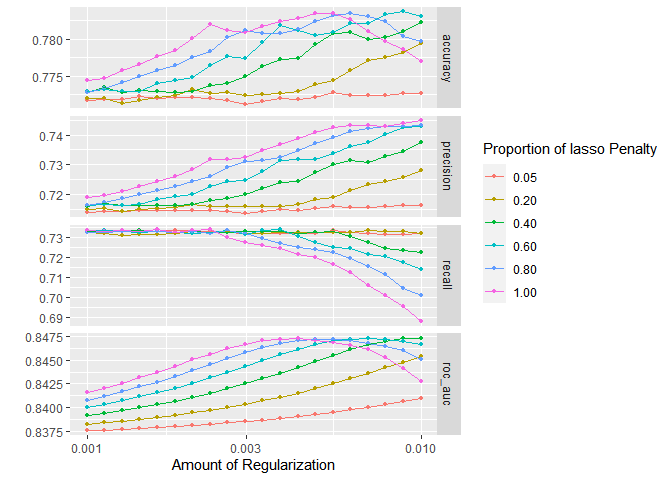
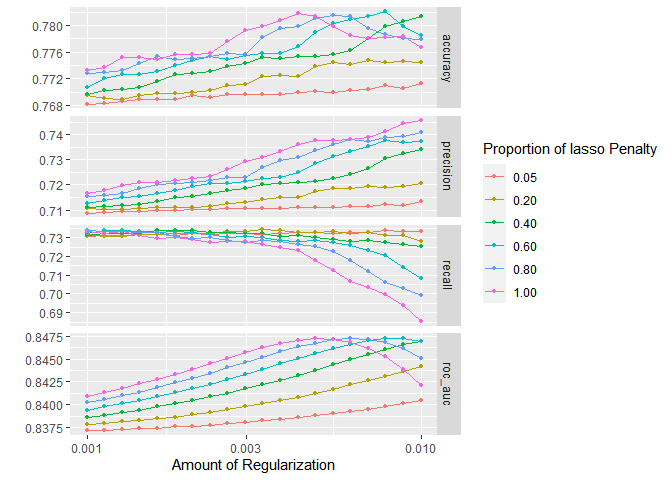
Add comments

diff --git a/Markdown/DAEN_690.md b/Markdown/DAEN_690.md
@@ -11,6 +11,8 @@ editor_options:
 
 
 
+Load libraries
+
 
 ```r
 library(tidyverse)
@@ -25,14 +27,35 @@ library(themis)
 tidymodels_prefer()
 ```
 
+Read data, convert the outcome/label column to factor.\
+For now try classifying only two categories. 3 categories that were relatively infrequent were dropped/
+
 
 ```r
 dt <- read_csv(here("Data/runway_incursion_narrative.csv")) %>% 
   clean_names()
+dt %>% count(cat_rank)
+```
+
+```
+## # A tibble: 6 x 2
+##   cat_rank     n
+##   <chr>    <int>
+## 1 A          142
+## 2 B          126
+## 3 C         7025
+## 4 D        10245
+## 5 E           34
+## 6 P           29
+```
+
+```r
 dt <- dt %>% 
   filter(cat_rank %in% c("C", "D")) %>% 
   mutate(cat_rank = factor(cat_rank)) 
 ```
+
+Basic eda to see word and bigram frequencies.
 
 
 ```r
@@ -78,6 +101,9 @@ bigrams_cnts %>%
 
 ![](DAEN_690_files/figure-html/eda-2.png)<!-- -->
 
+Split data and create cross fold validation split.\
+Since outcome levels are slightly imbalanced, splits are stratified.
+
 
 ```r
 initialsplit <- initial_split(dt, strata = cat_rank )
@@ -90,6 +116,26 @@ folds <- vfold_cv(dt_train, strata = cat_rank)
 ```r
 #use_glmnet(cat_rank ~ ., data = dt_train)
 ```
+
+**Recipe**
+
+-   tokenize
+
+-   remove stopwords
+
+-   Only keep tokens that occur minimum 100 times but less that 1000 times. After filtering these out, keep only 5000 tokens.
+
+-    tfidf
+
+-   smote for imbalanced labels.
+
+**Model**
+
+-   Glmnet
+
+-   Penalty and mixture tuned
+
+Using sparse matrix representation to speed up.
 
 
 ```r
@@ -142,11 +188,11 @@ glmnet_tune %>% show_best("accuracy")
 ## # A tibble: 5 x 8
 ##   penalty mixture .metric  .estimator  mean     n std_err .config               
 ##     <dbl>   <dbl> <chr>    <chr>      <dbl> <int>   <dbl> <chr>                 
-## 1 0.00886     0.6 accuracy binary     0.784    10 0.00390 Preprocessor1_Model079
-## 2 0.00546     1   accuracy binary     0.783    10 0.00417 Preprocessor1_Model115
-## 3 0.00616     0.8 accuracy binary     0.783    10 0.00360 Preprocessor1_Model096
-## 4 0.00483     1   accuracy binary     0.783    10 0.00375 Preprocessor1_Model114
-## 5 0.00785     0.6 accuracy binary     0.783    10 0.00382 Preprocessor1_Model078
+## 1 0.00785     0.6 accuracy binary     0.782    10 0.00264 Preprocessor1_Model078
+## 2 0.00428     1   accuracy binary     0.782    10 0.00255 Preprocessor1_Model113
+## 3 0.00546     0.8 accuracy binary     0.782    10 0.00273 Preprocessor1_Model095
+## 4 0.00616     0.8 accuracy binary     0.781    10 0.00262 Preprocessor1_Model096
+## 5 0.00483     1   accuracy binary     0.781    10 0.00247 Preprocessor1_Model114
 ```
 
 ```r
@@ -157,11 +203,11 @@ glmnet_tune %>% show_best("roc_auc")
 ## # A tibble: 5 x 8
 ##   penalty mixture .metric .estimator  mean     n std_err .config               
 ##     <dbl>   <dbl> <chr>   <chr>      <dbl> <int>   <dbl> <chr>                 
-## 1 0.00695     0.6 roc_auc binary     0.847    10 0.00415 Preprocessor1_Model077
-## 2 0.01        0.4 roc_auc binary     0.847    10 0.00418 Preprocessor1_Model060
-## 3 0.00886     0.4 roc_auc binary     0.847    10 0.00421 Preprocessor1_Model059
-## 4 0.00428     1   roc_auc binary     0.847    10 0.00412 Preprocessor1_Model113
-## 5 0.00616     0.6 roc_auc binary     0.847    10 0.00418 Preprocessor1_Model076
+## 1 0.00785     0.6 roc_auc binary     0.847    10 0.00250 Preprocessor1_Model078
+## 2 0.00886     0.6 roc_auc binary     0.847    10 0.00251 Preprocessor1_Model079
+## 3 0.00483     1   roc_auc binary     0.847    10 0.00248 Preprocessor1_Model114
+## 4 0.00616     0.8 roc_auc binary     0.847    10 0.00250 Preprocessor1_Model096
+## 5 0.00546     1   roc_auc binary     0.847    10 0.00248 Preprocessor1_Model115
 ```
 
 ```r
@@ -186,8 +232,8 @@ final_fit %>% collect_metrics()
 ## # A tibble: 2 x 4
 ##   .metric  .estimator .estimate .config             
 ##   <chr>    <chr>          <dbl> <chr>               
-## 1 accuracy binary         0.794 Preprocessor1_Model1
-## 2 roc_auc  binary         0.862 Preprocessor1_Model1
+## 1 accuracy binary         0.792 Preprocessor1_Model1
+## 2 roc_auc  binary         0.858 Preprocessor1_Model1
 ```
 
 ```r
@@ -198,7 +244,6 @@ final_fit %>% collect_predictions() %>%
 ```
 ##           Truth
 ## Prediction    C    D
-##          C 1254  387
-##          D  503 2175
+##          C 1282  422
+##          D  475 2140
 ```
-
